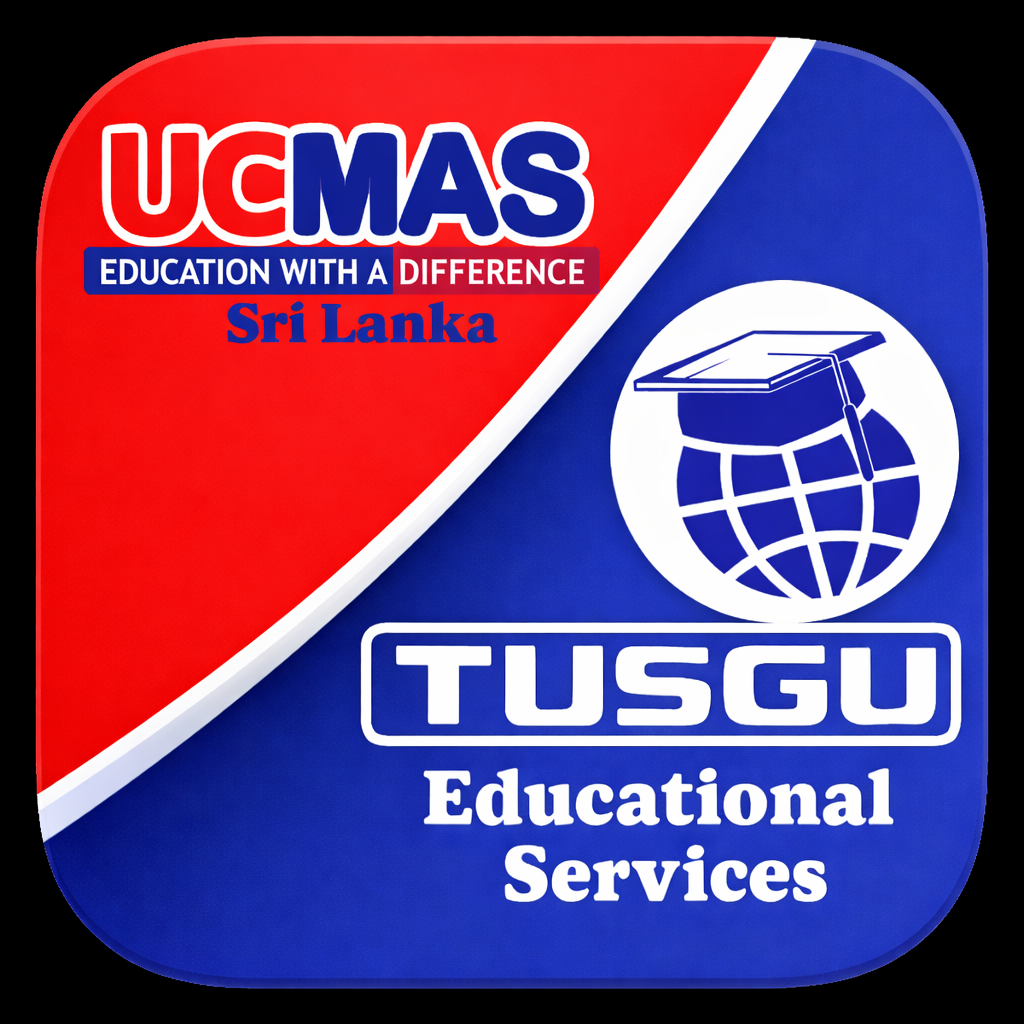
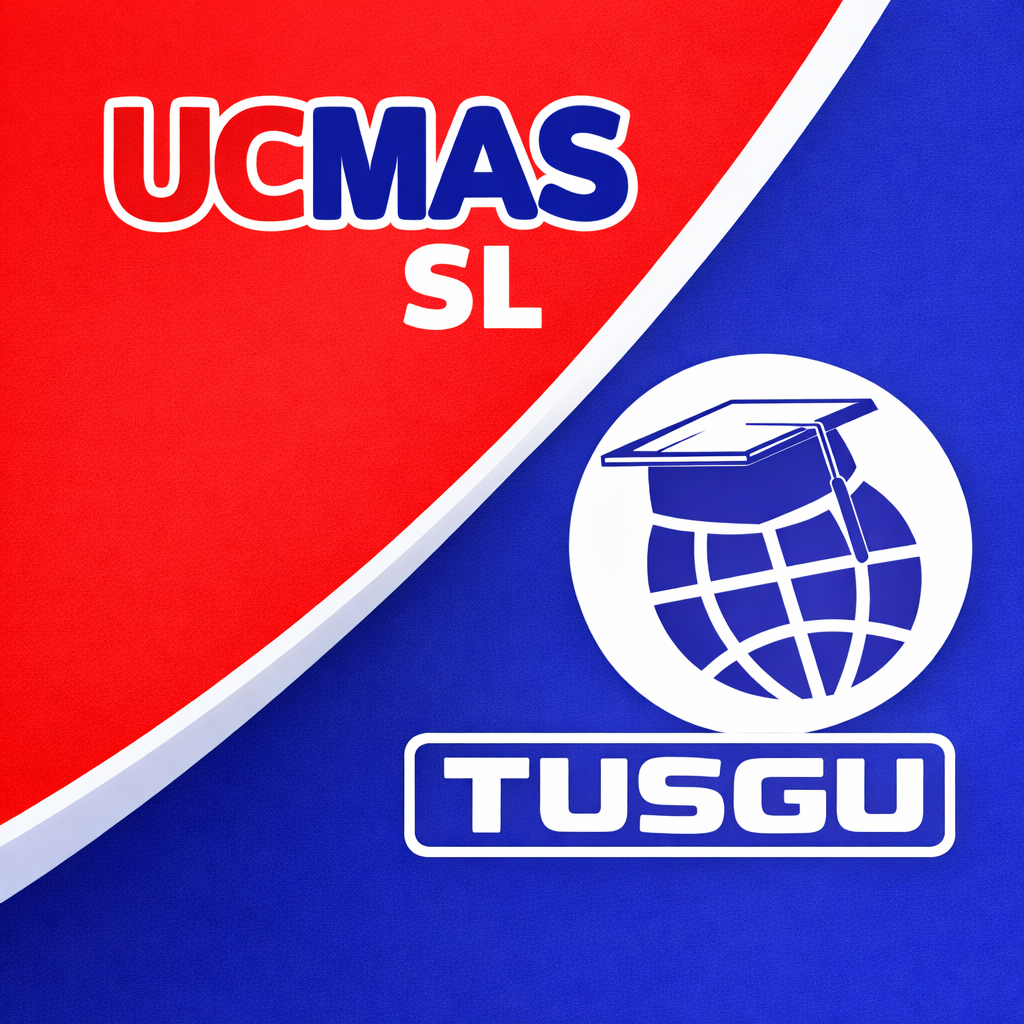
AppStore Ready

diff --git a/capacitor.config.ts b/capacitor.config.ts
@@ -2,7 +2,7 @@ import type { CapacitorConfig } from '@capacitor/cli';
 
 const config: CapacitorConfig = {
   appId: 'com.tusgu.education',
-  appName: 'UCMAS Sri Lanka & TUSGU',
+  appName: 'UCMAS SL & TUSGU',
   webDir: 'dist',
   server: {
     androidScheme: 'https'
